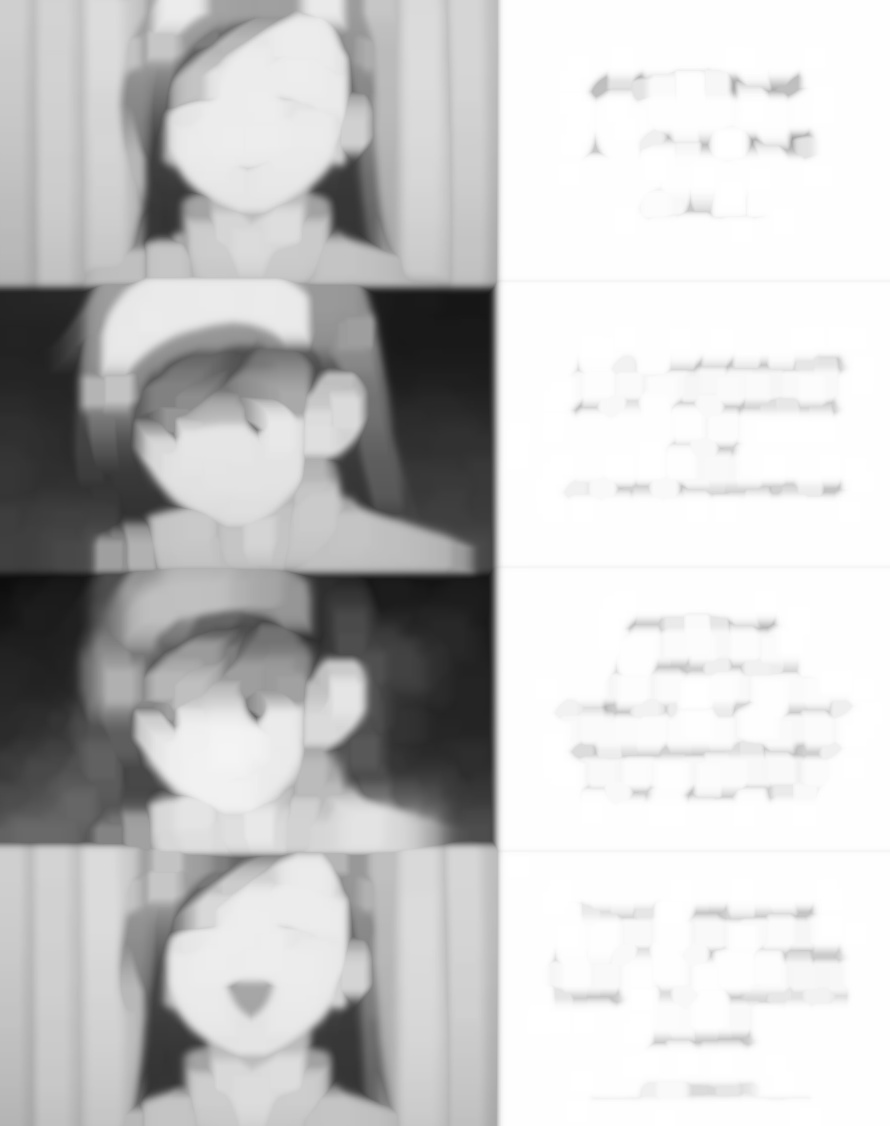
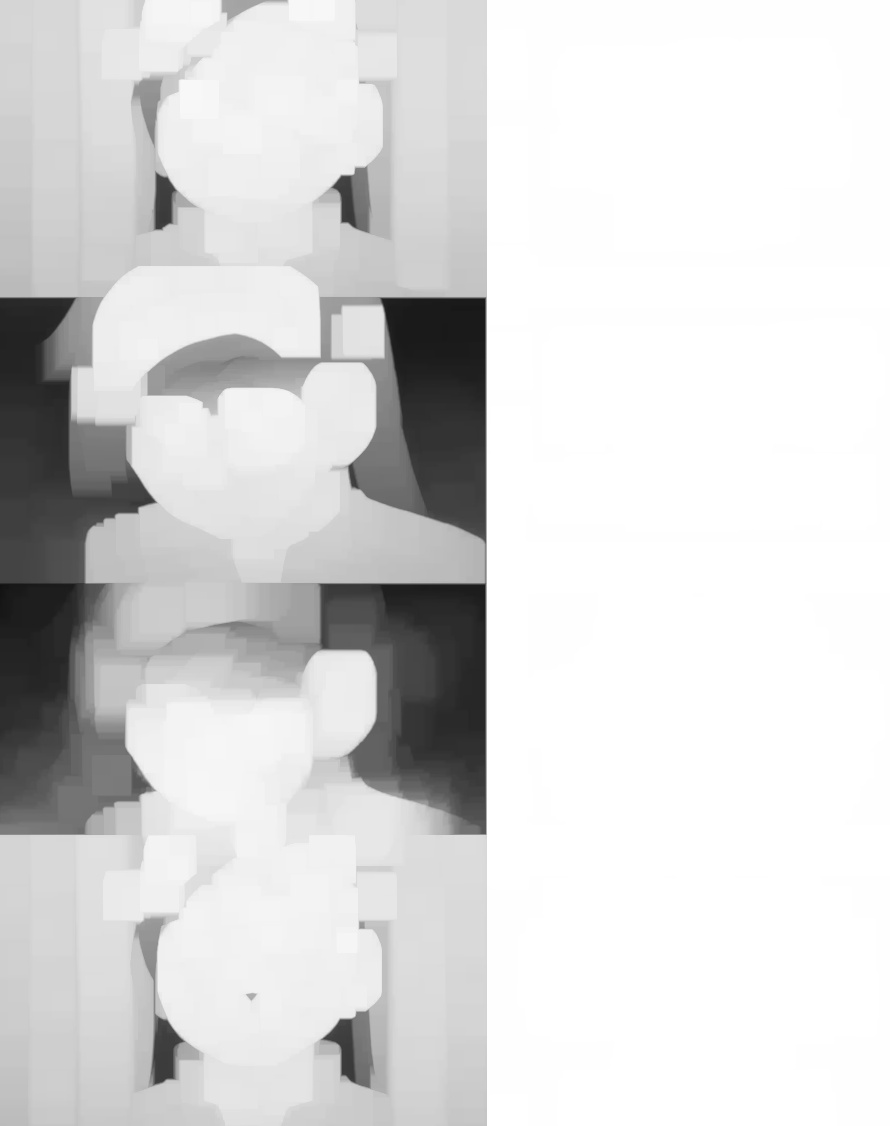
gestion de l'erreur, flou négatif ou pair

diff --git a/blur.py b/blur.py
@@ -2,7 +2,10 @@ import cv2
 import os
 
 
-def blur_pic(dossierE, dossierS):
+def blur_pic(dossierE, dossierS, blur_level):
+    if blur_level <= 0 or blur_level % 2 == 0:
+        print(f'blur_level invalide : {blur_level}')
+        return
 
     files = os.listdir(dossierE)
     for f in files:
@@ -11,7 +14,8 @@ def blur_pic(dossierE, dossierS):
             try:
                 print(f)
                 img = cv2.imread(f"{dossierE}/{f}")
-                blur = cv2.GaussianBlur(img, (30, 30), cv2.BORDER_DEFAULT)
+                blur = cv2.GaussianBlur(img, (blur_level, blur_level), cv2.BORDER_DEFAULT)
+
                 cv2.imwrite(f"{dossierS}/{f}", blur)
             except NameError as e:
                 print(f"image inexistante, erreur : {e}")

diff --git a/main.py b/main.py
@@ -4,7 +4,8 @@ from blur import blur_pic
 
 dossierE = "imgs"
 dossierS = "ImgsModif"
+blur_level = -3
 
-blur_pic(dossierE, dossierS)
-# gray_pic(dossierS, dossierS)
-# dilatation_pic(dossierS, dossierS)
+blur_pic(dossierE, dossierS, blur_level)
+gray_pic(dossierS, dossierS)
+dilatation_pic(dossierS, dossierS)
